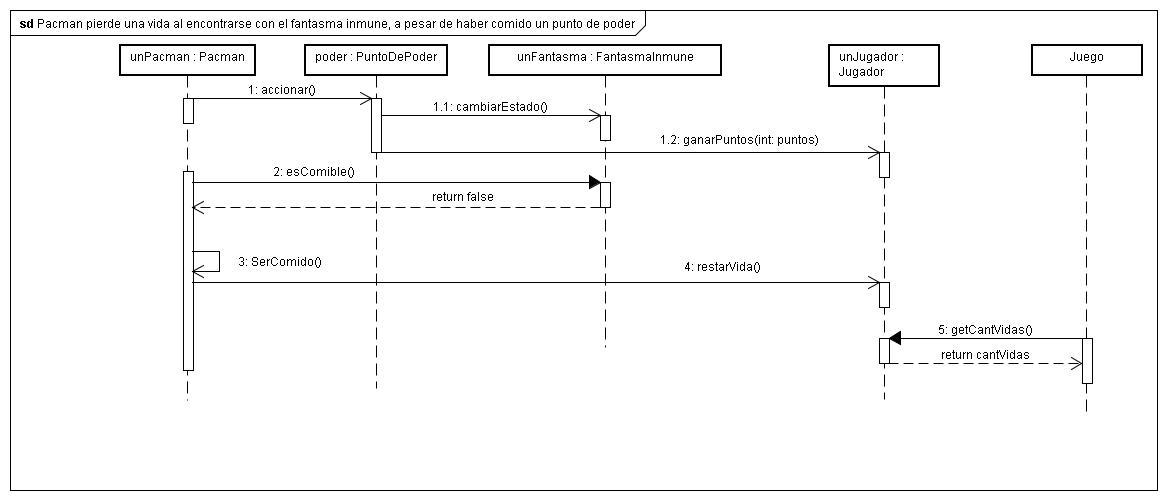
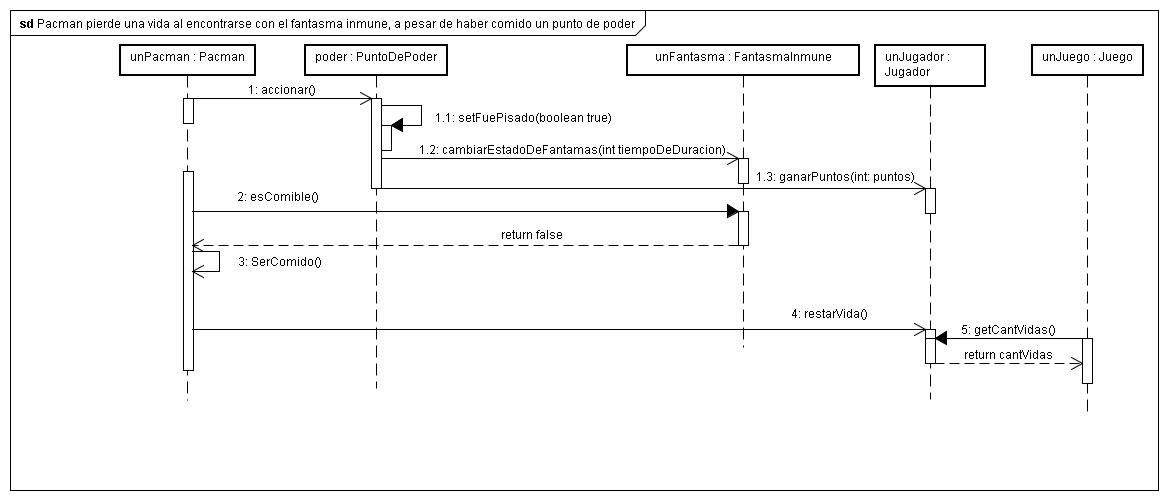
diagramas actualizados falta el de clases.

diff --git a/src/modelo/fijos/Jugador.java b/src/modelo/fijos/Jugador.java
@@ -2,22 +2,22 @@ package modelo.fijos;
 
 public class Jugador {
 
-	private String nombre;
+
 	private int cantVidas;
 	private int puntos;
 	
 	
 	public Jugador(){
 		
-		this.nombre = "Jugador Desconocido";
+		
 		this.cantVidas = 3;
 		this.puntos = 0;		
 	}
 
 	
-	public Jugador(String nombre, int cantDeVidas, int puntos){
+	public Jugador(int cantDeVidas, int puntos){
 		
-		this.nombre = nombre;
+	
 		this.cantVidas = cantDeVidas;
 		this.puntos = puntos;
 	}
@@ -48,8 +48,5 @@ public class Jugador {
 	}
 
 	
-	public String getNombre() {
-		return this.nombre;
-	}
 
 }

diff --git a/src/modelo/fijos/Juego.java b/src/modelo/fijos/Juego.java
@@ -19,7 +19,7 @@ public class Juego{
 	public Juego(){
 		this.cargarElementos();
 		this.nivel = 1;
-		this.jugador = new Jugador("Player1", 3, 0);
+		this.jugador = new Jugador(3, 0);
 		Juego.estadoJuego = EstadosJuego.EN_CURSO;
 	}
 
